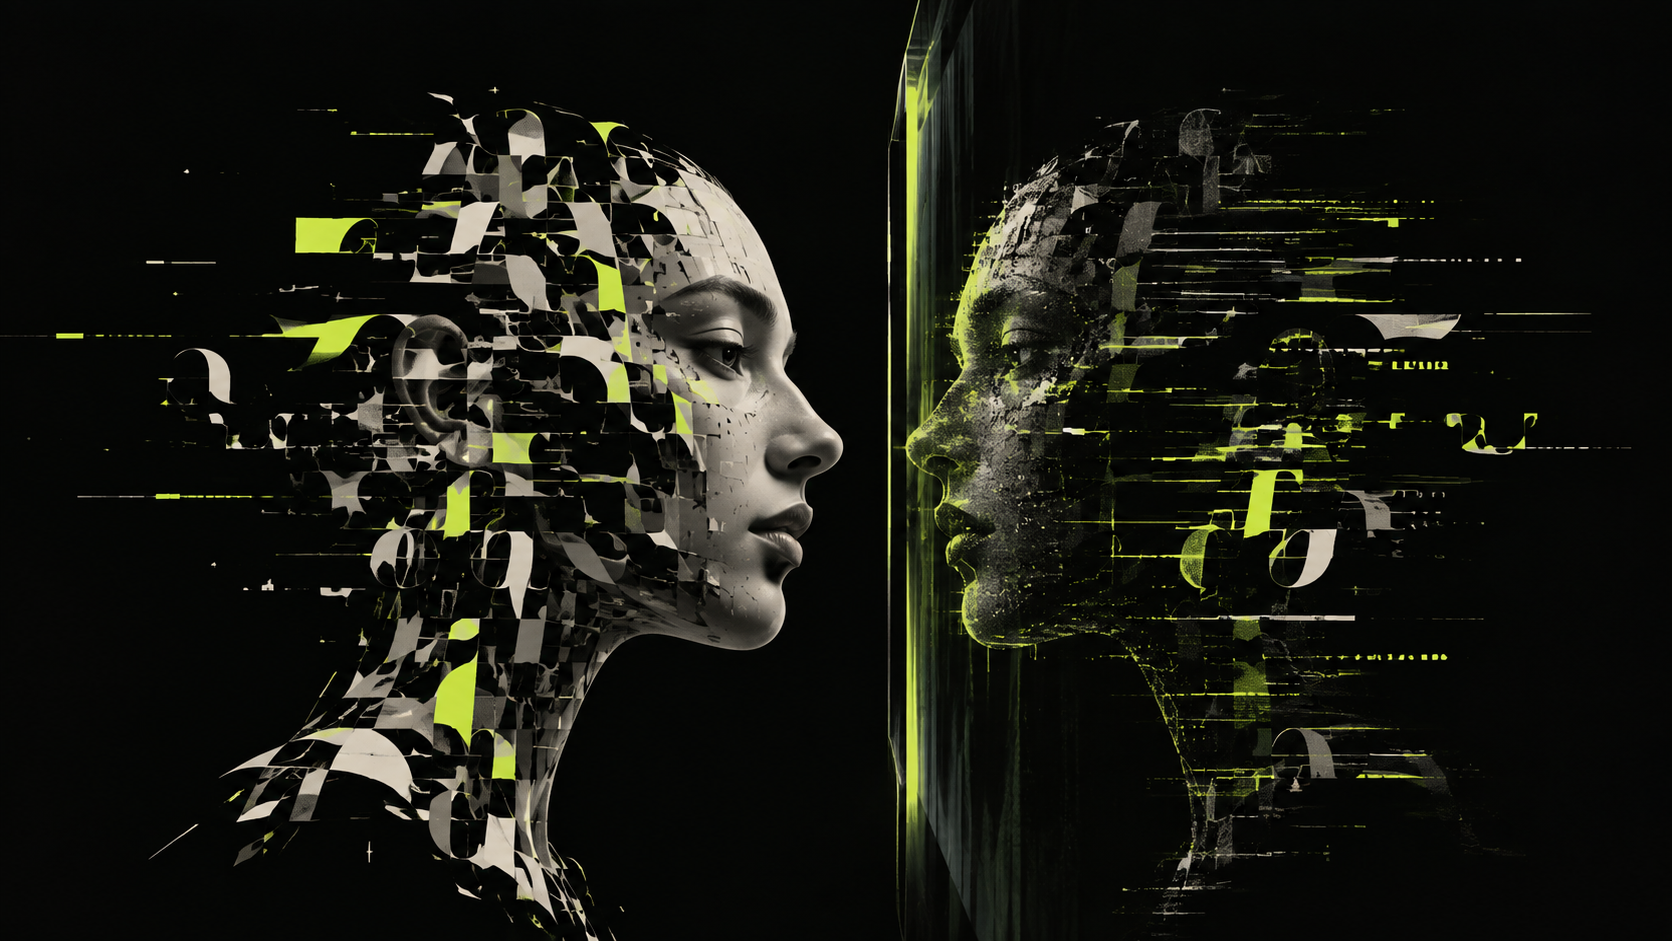
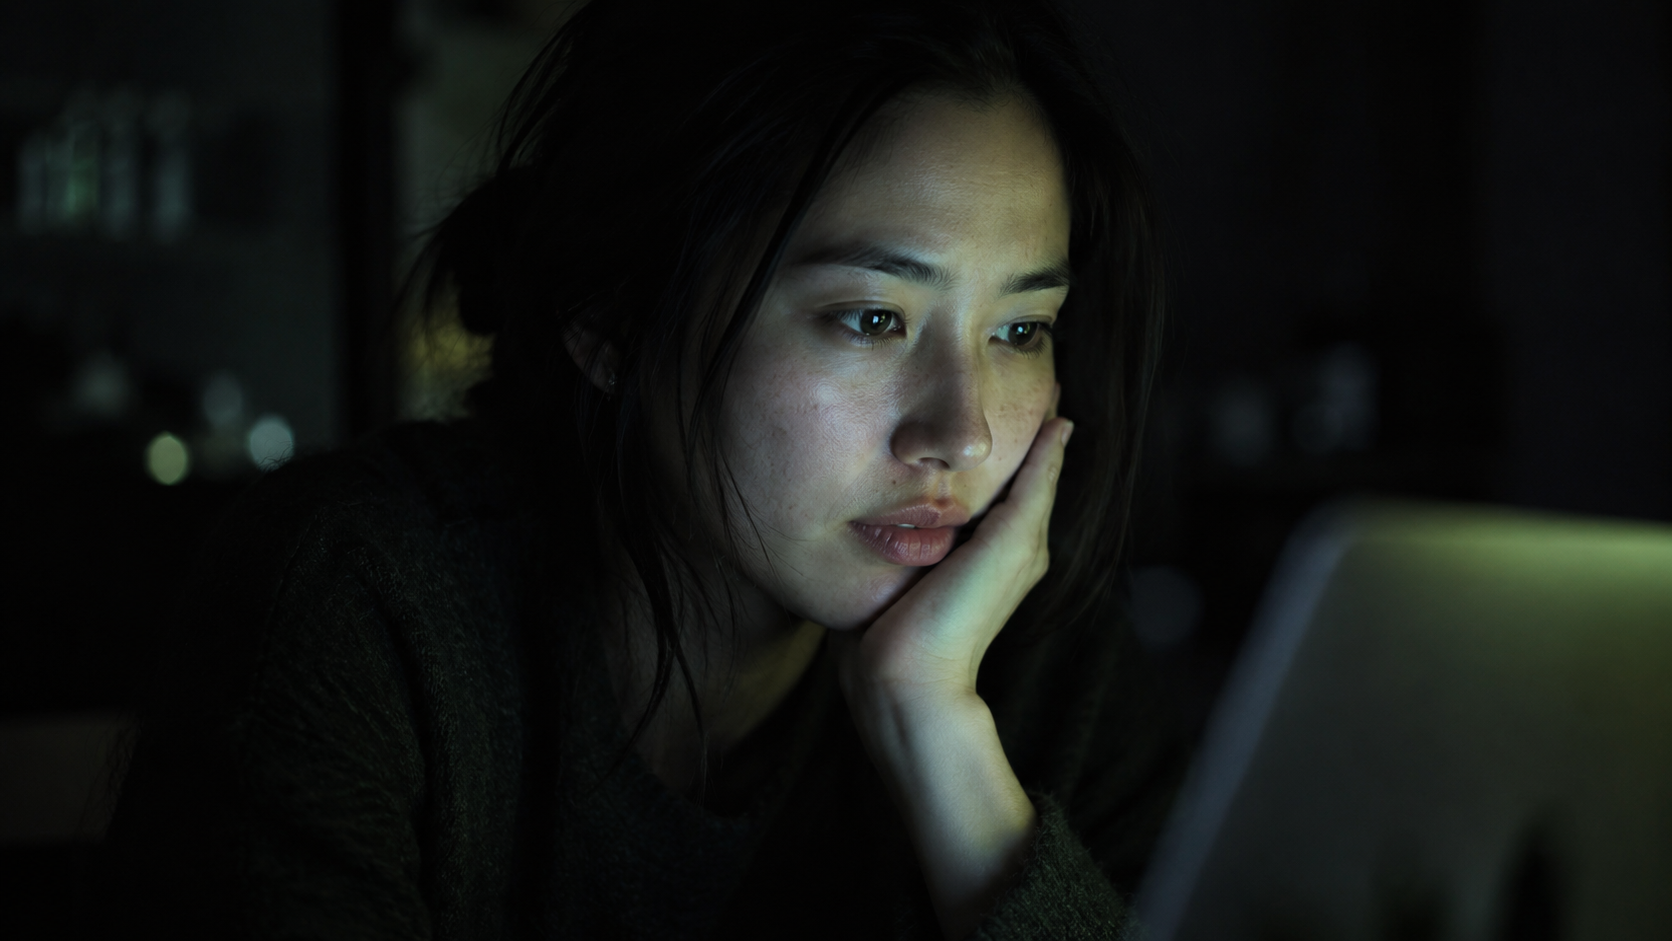
Replace blog images with realistic photography, add 3 figures
Swaps the abstract neon-glitch cover for a realistic editorial
photo and adds 3 matching figure images, bringing this post in
line with the photo style used on the other posts.

diff --git a/blog/ai-doesnt-understand-culture-it-reflects-it.html b/blog/ai-doesnt-understand-culture-it-reflects-it.html
@@ -56,10 +56,31 @@
       <p>Ask a model to write in the voice of a Mumbai auntie or a Gen Z skincare brand and it will often get close enough to be unsettling. That closeness gets mistaken for understanding. It is not understanding. It is pattern matching against an enormous pile of text that humans already wrote, which means the model is not translating culture so much as reassembling it and handing it back to us.</p>
       <h2 style="margin:1.4em 0 .1em">The mirror, not the translator</h2>
       <p>A translator has to understand both languages well enough to carry meaning across the gap between them. A model has no lived experience on either side. What it has is a map of which words tend to follow which other words, across more writing than any person could read in a hundred lifetimes. That map is good enough to imitate a voice convincingly. It is not the same thing as knowing what the voice means, and the difference matters the moment the output gets used for something that actually has to land.</p>
+      </div>
+  </section>
+  <figure class="post-inline" data-rev style="margin:0 auto;padding:0 var(--pad);max-width:1100px">
+    <img src="../assets/blog/ai-doesnt-understand-culture-it-reflects-it/fig-1.png" alt="A person sees their own reflection looking back rather than something new" loading="lazy" decoding="async" style="width:100%;height:auto;border-radius:14px;display:block">
+  </figure>
+  <section class="case-body" style="grid-template-columns:1fr;max-width:74ch;margin:0 auto" data-rev>
+    <div class="prose" data-rev data-stagger>
       <h2 style="margin:1.4em 0 .1em">It amplifies whatever you feed it, including the parts you would not choose</h2>
       <p>The same mechanism that lets a model sound warm and specific also lets it sound exactly as biased, as dated, or as flattened as the internet it trained on. A brand voice built on a model with no guardrails will drift toward whatever is most common in its training data, which is rarely distinctive and occasionally wrong in ways that are expensive to fix after the fact. The tool does not have taste. It has averages. Taste is still the part a studio has to bring.</p>
+      </div>
+  </section>
+  <figure class="post-inline" data-rev style="margin:0 auto;padding:0 var(--pad);max-width:1100px">
+    <img src="../assets/blog/ai-doesnt-understand-culture-it-reflects-it/fig-3.png" alt="The same signal repeated back across many screens, each copy a little more distorted" loading="lazy" decoding="async" style="width:100%;height:auto;border-radius:14px;display:block">
+  </figure>
+  <section class="case-body" style="grid-template-columns:1fr;max-width:74ch;margin:0 auto" data-rev>
+    <div class="prose" data-rev data-stagger>
       <h2 style="margin:1.4em 0 .1em">Where this actually helps a brand</h2>
       <p>None of that makes the tool useless, it makes it a draft machine rather than a decision maker. Used well, it can surface ten ways a line might read across ten different audiences faster than a planning meeting could, which is genuinely useful when you are trying to catch a tone problem before it ships. Used badly, it becomes the version of your brand that ships because nobody had time to check it, and that version is almost always the blandest one available.</p>
+      </div>
+  </section>
+  <figure class="post-inline" data-rev style="margin:0 auto;padding:0 var(--pad);max-width:1100px">
+    <img src="../assets/blog/ai-doesnt-understand-culture-it-reflects-it/fig-2.png" alt="A person still makes the final call on what ships" loading="lazy" decoding="async" style="width:100%;height:auto;border-radius:14px;display:block">
+  </figure>
+  <section class="case-body" style="grid-template-columns:1fr;max-width:74ch;margin:0 auto" data-rev>
+    <div class="prose" data-rev data-stagger>
       <h2 style="margin:1.4em 0 .1em">The part that stays human</h2>
       <p>Every project at Vaelo runs the AI stack hard for speed and still has a person decide what the brand is actually saying, because a model cannot sit in the room when a client asks why a line felt off. It can generate the options. It cannot tell you which one is true to the brand, and it never will, because that call depends on caring about the outcome rather than predicting the next likely word. If you are weighing how much of your own voice to hand to a model, that is the conversation worth having first.</p>
     </div>

diff --git a/assets/blog.js b/assets/blog.js
@@ -17,10 +17,13 @@ window.VAELO_BLOG = [
       'Ask a model to write in the voice of a Mumbai auntie or a Gen Z skincare brand and it will often get close enough to be unsettling. That closeness gets mistaken for understanding. It is not understanding. It is pattern matching against an enormous pile of text that humans already wrote, which means the model is not translating culture so much as reassembling it and handing it back to us.',
       '## The mirror, not the translator',
       'A translator has to understand both languages well enough to carry meaning across the gap between them. A model has no lived experience on either side. What it has is a map of which words tend to follow which other words, across more writing than any person could read in a hundred lifetimes. That map is good enough to imitate a voice convincingly. It is not the same thing as knowing what the voice means, and the difference matters the moment the output gets used for something that actually has to land.',
+      '![A person sees their own reflection looking back rather than something new](assets/blog/ai-doesnt-understand-culture-it-reflects-it/fig-1.png)',
       '## It amplifies whatever you feed it, including the parts you would not choose',
       'The same mechanism that lets a model sound warm and specific also lets it sound exactly as biased, as dated, or as flattened as the internet it trained on. A brand voice built on a model with no guardrails will drift toward whatever is most common in its training data, which is rarely distinctive and occasionally wrong in ways that are expensive to fix after the fact. The tool does not have taste. It has averages. Taste is still the part a studio has to bring.',
+      '![The same signal repeated back across many screens, each copy a little more distorted](assets/blog/ai-doesnt-understand-culture-it-reflects-it/fig-3.png)',
       '## Where this actually helps a brand',
       'None of that makes the tool useless, it makes it a draft machine rather than a decision maker. Used well, it can surface ten ways a line might read across ten different audiences faster than a planning meeting could, which is genuinely useful when you are trying to catch a tone problem before it ships. Used badly, it becomes the version of your brand that ships because nobody had time to check it, and that version is almost always the blandest one available.',
+      '![A person still makes the final call on what ships](assets/blog/ai-doesnt-understand-culture-it-reflects-it/fig-2.png)',
       '## The part that stays human',
       'Every project at Vaelo runs the AI stack hard for speed and still has a person decide what the brand is actually saying, because a model cannot sit in the room when a client asks why a line felt off. It can generate the options. It cannot tell you which one is true to the brand, and it never will, because that call depends on caring about the outcome rather than predicting the next likely word. If you are weighing how much of your own voice to hand to a model, that is the conversation worth having first.'
     ]
